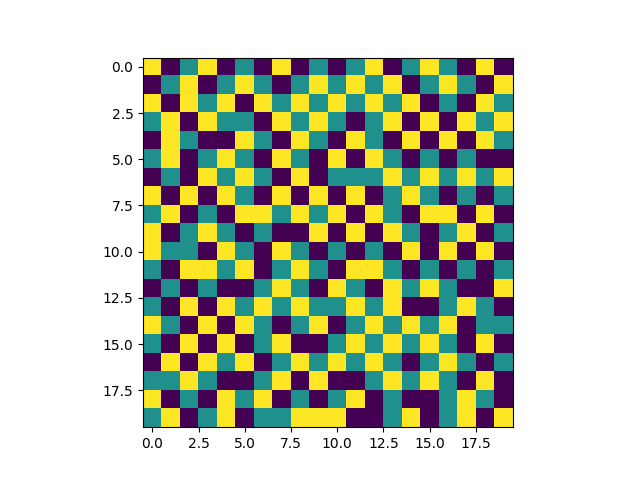
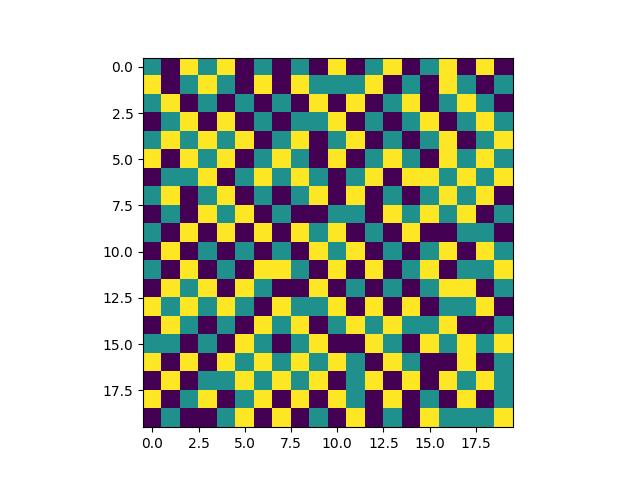
added shelling initialization

diff --git a/DiversitySimulator/graph_envs/base_graph_env.py b/DiversitySimulator/graph_envs/base_graph_env.py
@@ -3,6 +3,8 @@ from abc import ABC, abstractmethod
 from dataclasses import dataclass 
 import numpy as np
 
+from graph_envs.grid_initializations import random_init
+
 from typing import TYPE_CHECKING, Callable, Any
 if TYPE_CHECKING:
     from dynamics.base_dynamic import BaseDynamics, DynamicsOutput
@@ -41,6 +43,7 @@ class BaseGraphEnvironment(ABC):
                  metrics: list|Callable,
                  dynamics: BaseDynamics,
                  neigh_radius: int = 1,
+                 init_func: Callable = random_init,
                  verbosity: int = 0):
         '''
             Args:
@@ -49,12 +52,13 @@ class BaseGraphEnvironment(ABC):
                 utility: utility metric
                 metrics: metric or list of metrics used to measure the diversity level of the world
                 dynamics: BaseDynamics object to model how the vectors move
+                init_func: world initializaton function.
                 neigh_radius: neighbourhood radius, used for the utility metrics (default = 1)
                 verbosity: for printing debug message (default 0)
         '''
         self.num_vertices = num_vertices
         self.num_types = num_types
-        self._utility_func = utility_func
+        self.utility_func = utility_func
         if not isinstance(metrics, list):
             metrics = [metrics]
         self._metrics = metrics
@@ -63,17 +67,7 @@ class BaseGraphEnvironment(ABC):
         self.verbosity = verbosity
         self.done = False
 
-        self.world = self._init_world()
-
-    @abstractmethod
-    def _init_world(self):
-        '''
-            World initialization function. 
-
-            Return:
-                Object for self.world.
-        '''
-        return None
+        self.world = init_func(self)
 
     @abstractmethod
     def get_vertex(self, loc_idx: Any):
@@ -202,7 +196,7 @@ class BaseGraphEnvironment(ABC):
             Args:
                 vertex: reference vertex
                 utility_func: (optional) the utility function to use
-                              if None, use `self._utility_func`
+                              if None, use `self.utility_func`
 
             Return:
                 the scalar utility measure
@@ -210,7 +204,7 @@ class BaseGraphEnvironment(ABC):
         if vertex.neigh_type_vector is None:
             vertex.neigh_type_vector = self.get_neighborhood_type_vector(vertex)
         if utility_func is None:
-            return self._utility_func(vertex)
+            return self.utility_func(vertex)
         return utility_func(vertex)
     
     def move_vertices(self, dynamic_output: DynamicsOutput):
@@ -224,8 +218,8 @@ class BaseGraphEnvironment(ABC):
         '''
         type_list = [self.get_vertex_type(loc_idx) for loc_idx in dynamic_output.past_locations]
         for new_loc, past_loc, to_type in zip(dynamic_output.new_locations, dynamic_output.past_locations, type_list):
-            if self.verbosity == 1:
-                print('Moving vertex at', past_loc, 'to', new_loc, 'type=', to_type)
+            # if self.verbosity == 1:
+            #     print('Moving vertex at', past_loc, 'to', new_loc, 'type=', to_type)
             self.set_vertex_type(to_type, new_loc)   
 
     def step(self):
@@ -244,6 +238,7 @@ class BaseGraphEnvironment(ABC):
                 return False
             self.move_vertices(response)
             if self.verbosity > 0:
+                print('Moving vertex at', response.past_locations, 'to', response.new_locations)
                 print(self.world)
             return True
         return False

diff --git a/DiversitySimulator/graph_envs/grid.py b/DiversitySimulator/graph_envs/grid.py
@@ -40,9 +40,6 @@ class GridWorld(BaseGraphEnvironment):
         self.wrapped_indices = wrapped_indices
         super().__init__(np.prod(self.world_size), *args, **kwargs)
         
-    def _init_world(self):
-        return np.random.choice(self.num_types, self.world_size)
-
     def __convert_index(self, location_1D):
         '''
             Convert 1D location index to n-D location index. 
@@ -229,12 +226,12 @@ class GridWorld(BaseGraphEnvironment):
         ax.imshow(self.world)
         plt.savefig(fig_name+'.png')
 
-    def visualize(self, num_steps):
+    def visualize(self, num_steps:int, name:str=None):
         assert len(self.world_size) == 2
 
         fig, ax = plt.subplots()
         self.viz_metrics = self.compute_metric_summary(to_str=True)
-        self.save_snapshot('init')
+        self.save_snapshot('%s_init'%(name))
         
         def step_visualize(i):
             print('Step', i)
@@ -243,7 +240,7 @@ class GridWorld(BaseGraphEnvironment):
             ax.imshow(self.world)
             ax.set_title('Step: %d, %s' % (min(i, num_steps), self.viz_metrics))
             if i == num_steps:
-                self.save_snapshot('final')
+                self.save_snapshot('%s_final'%(name))
             return ax,
 
         ani = animation.FuncAnimation(fig, step_visualize, frames=num_steps+10, interval=1)
@@ -253,4 +250,4 @@ class GridWorld(BaseGraphEnvironment):
         writer = animation.PillowWriter(fps=10,
                                         metadata=dict(artist='Diversity Simulator'),
                                         bitrate=1800)
-        ani.save('simulation.gif', writer=writer)
+        ani.save('%s_simulation.gif'%(name), writer=writer)

diff --git a/DiversitySimulator/configs.py b/DiversitySimulator/configs.py
@@ -19,7 +19,7 @@ def CIRCLE_WORLD(world_size:int, verbosity:int=1):
                      wrapped_indices=[True],
                      utility_func=type_counting_diversity_utility,
                      metrics=METRICS,
-                     dynamics=RandomSwapper(INDIVIDUAL_NO_WORSE),
+                     dynamics=UtilityOrderedSwapper(INDIVIDUAL_NO_WORSE),
                      verbosity=verbosity)
 
 
@@ -31,7 +31,7 @@ def CYLINDER_WORLD(world_size:int, verbosity:int=1):
                      wrapped_indices=[False, True],
                      utility_func=type_counting_diversity_utility,
                      metrics=METRICS,
-                     dynamics=RandomSwapper(INDIVIDUAL_NO_WORSE),
+                     dynamics=UtilityOrderedSwapper(INDIVIDUAL_NO_WORSE),
                      verbosity=verbosity)
 
 
@@ -49,11 +49,11 @@ def GRID_4DEG_WORLD(world_size:list, verbosity:int=1):
 
 def GRID_8DEG_WORLD(world_size:list, verbosity:int=1):
     return GridWorld(world_size, 
-                     num_types=3,
+                     num_types=6,
                      neigh_radius=1,
                      vertex_degree=8, 
                      wrapped_indices=[True, True],
                      utility_func=type_counting_diversity_utility,
                      metrics=METRICS,
-                     dynamics=RandomSwapper(INDIVIDUAL_NO_WORSE),
+                     dynamics=UtilityOrderedSwapper(INDIVIDUAL_NO_WORSE),
                      verbosity=verbosity)

diff --git a/DiversitySimulator/unit_test.py b/DiversitySimulator/unit_test.py
@@ -1,10 +1,30 @@
-from configs import CYLINDER_WORLD, GRID_4DEG_WORLD
+from configs import CYLINDER_WORLD, GRID_4DEG_WORLD, GRID_8DEG_WORLD
 
-# world = CYLINDER_WORLD(10)
-world = GRID_4DEG_WORLD([20,20])
+from utilities.neighborhood_vector_metrics import schelling_segregation_utility
+from dynamics.swap import UtilityOrderedSwapper, INDIVIDUAL_GREATER
+
+# world = CYLINDER_WORLD(40)
+world = GRID_4DEG_WORLD([20,20], verbosity=1)
 print(world.world)
+
+def schelling_segregation_init(env):
+    '''
+        Run Schelling segregation. 
+    '''
+    utility_func = env.utility_func
+    dynamics = env.dynamics
+    env.utility_func = schelling_segregation_utility
+    env.dynamics = UtilityOrderedSwapper(INDIVIDUAL_GREATER)
+    while env.step():
+        print(env.done)
+    env.done = False
+    env.utility_func = utility_func
+    env.dynamics = dynamics
+
+
 world.compute_metric_summary(print_results=True)
-world.visualize(200)
+schelling_segregation_init(world)
+world.visualize(200, 'GRID_4DEG_WORLD_SHELLING')
 # for i in range(100):
 #     changed = world.step()
 #     if changed:

diff --git a/DiversitySimulator/graph_envs/grid_initializations.py b/DiversitySimulator/graph_envs/grid_initializations.py
@@ -1,0 +1,27 @@
+from __future__ import annotations
+import numpy as np
+
+from typing import TYPE_CHECKING
+if TYPE_CHECKING:   
+    from graph_envs.base_graph_env import BaseGraphEnvironment
+
+
+def random_init(env: BaseGraphEnvironment):
+    '''
+        Random type assignment in the world.
+    '''
+    return np.random.choice(env.num_types, env.world_size)
+
+
+def block_init(env: BaseGraphEnvironment):
+    '''
+        Assign a types in groups.
+    '''
+    block_size = env.world_size[0] // env.num_types
+    world = np.zeros(env.world_size)
+    current_type = 1
+    for i in range(block_size, env.world_size[0], block_size):
+        world[i:i+block_size] = current_type
+        current_type += 1
+    world[i:] = current_type - 1
+    return world

diff --git a/DiversitySimulator/dynamics/swap.py b/DiversitySimulator/dynamics/swap.py
@@ -49,8 +49,10 @@ class BaseSwapper(BaseDynamics):
             u1 = env.compute_utility(v1)
         if u2 is None:
             u2 = env.compute_utility(v2)
+        env.move_vertices(self._swap(v1, v2))
         u12 = env.compute_utility(v12)
         u21 = env.compute_utility(v21)
+        env.move_vertices(self._swap(v12, v21))
 
         if env.verbosity==2:
             print('Swapping', v1, 'and', v2)
